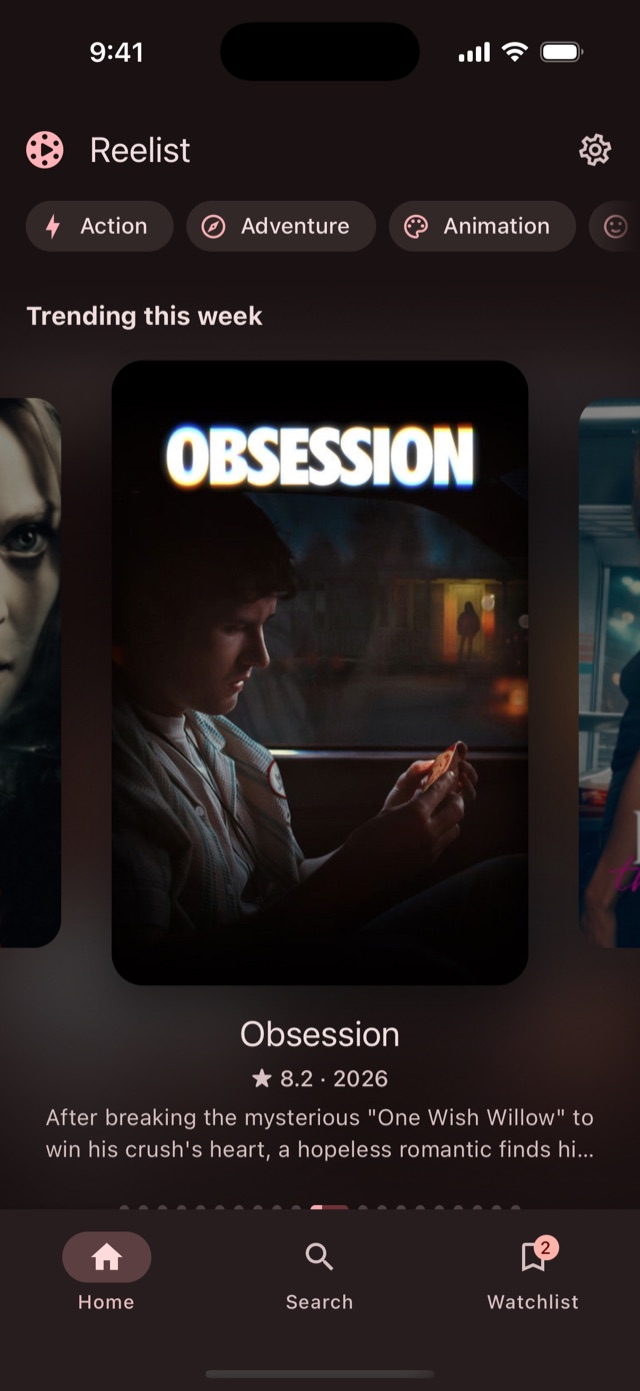
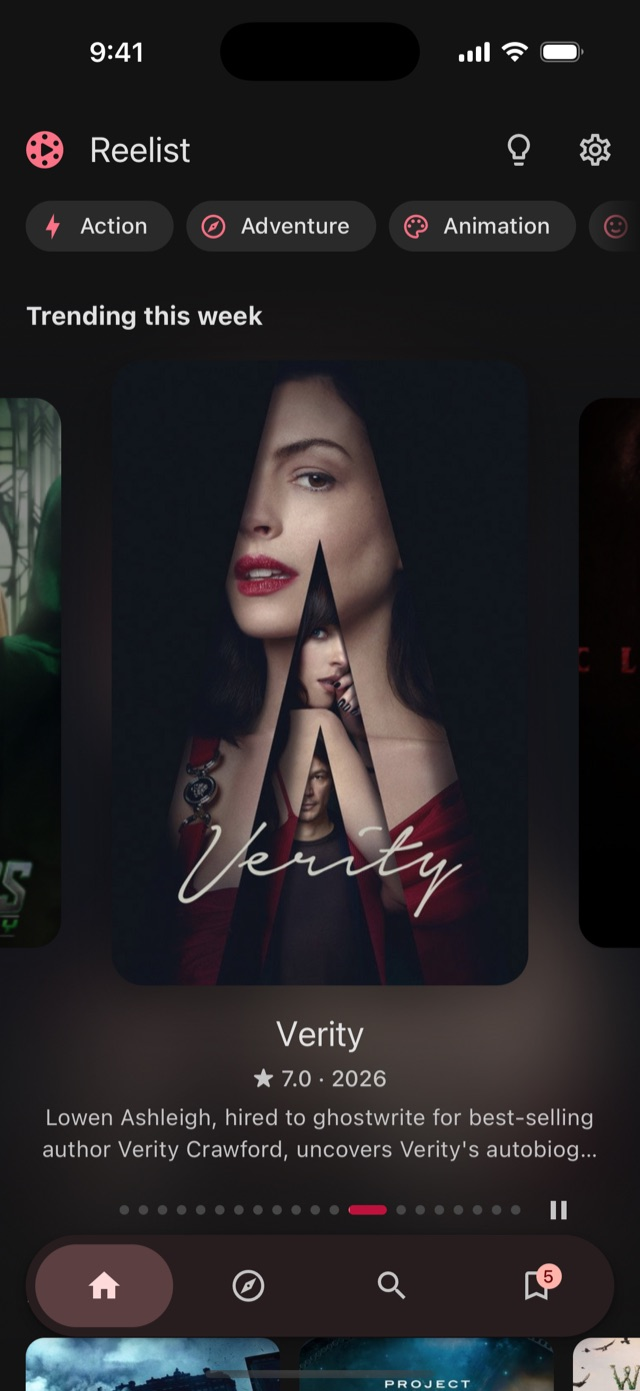
docs: update image and replace screenshots

diff --git a/README.md b/README.md
@@ -67,7 +67,7 @@
 <p align="center">
   <picture>
     <source media="(prefers-color-scheme: dark)" srcset="assets/docs/screenshots/phone-home-dark.jpg" />
-    <img src="assets/docs/screenshots/phone-home-light.jpg" alt="The home screen on a phone, with the trending carousel" width="30%" />
+    <img src="assets/docs/screenshots/phone-home-light.jpg" alt="The home screen on a phone, with the trending carousel and the floating navigation bar" width="30%" />
   </picture>
   &nbsp;
   <picture>
@@ -77,7 +77,7 @@
   &nbsp;
   <picture>
     <source media="(prefers-color-scheme: dark)" srcset="assets/docs/screenshots/phone-watchlist-dark.jpg" />
-    <img src="assets/docs/screenshots/phone-watchlist-light.jpg" alt="The watchlist on a phone: 2 of 8 films watched" width="30%" />
+    <img src="assets/docs/screenshots/phone-watchlist-light.jpg" alt="The watchlist on a phone: 3 of 8 films watched" width="30%" />
   </picture>
 </p>
 
